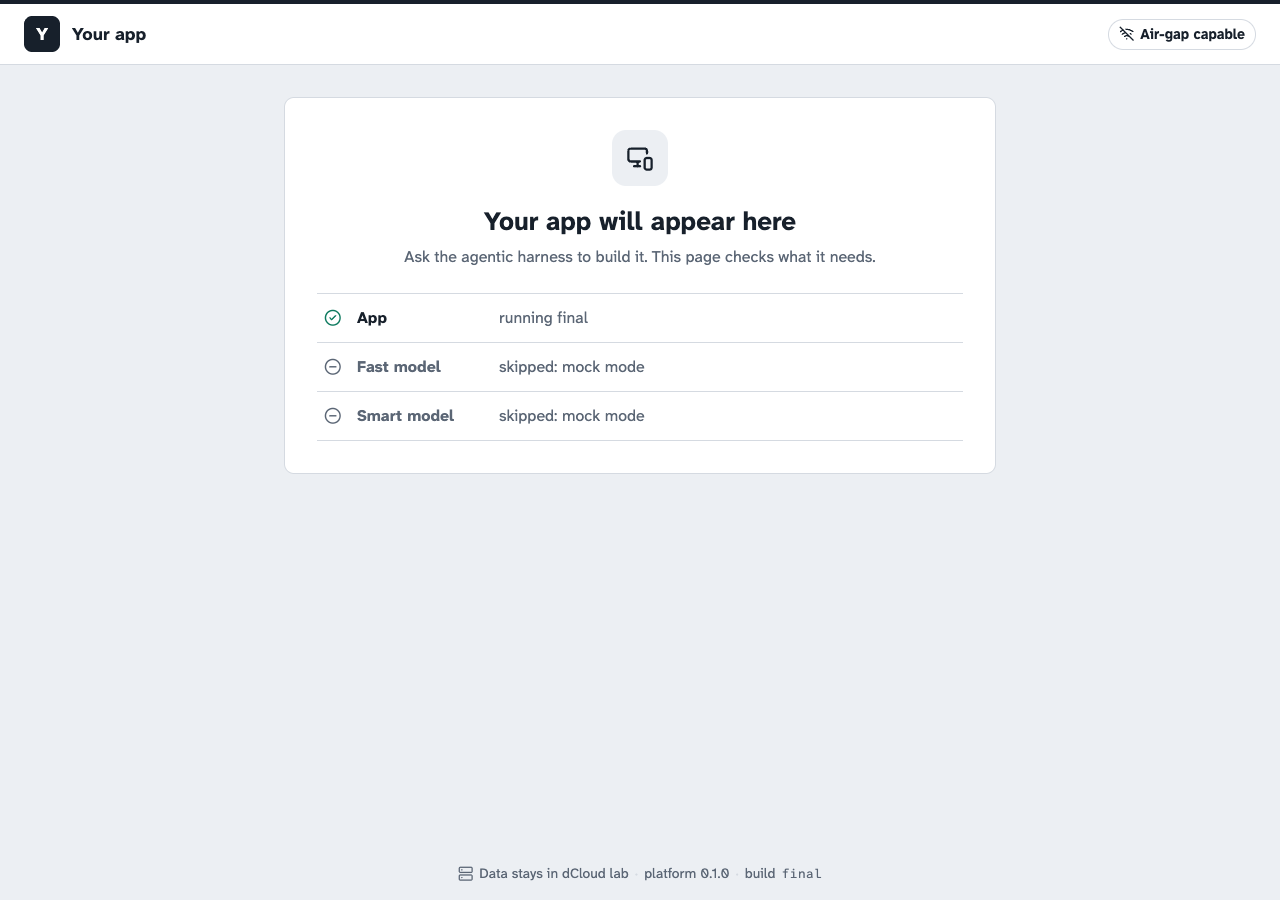
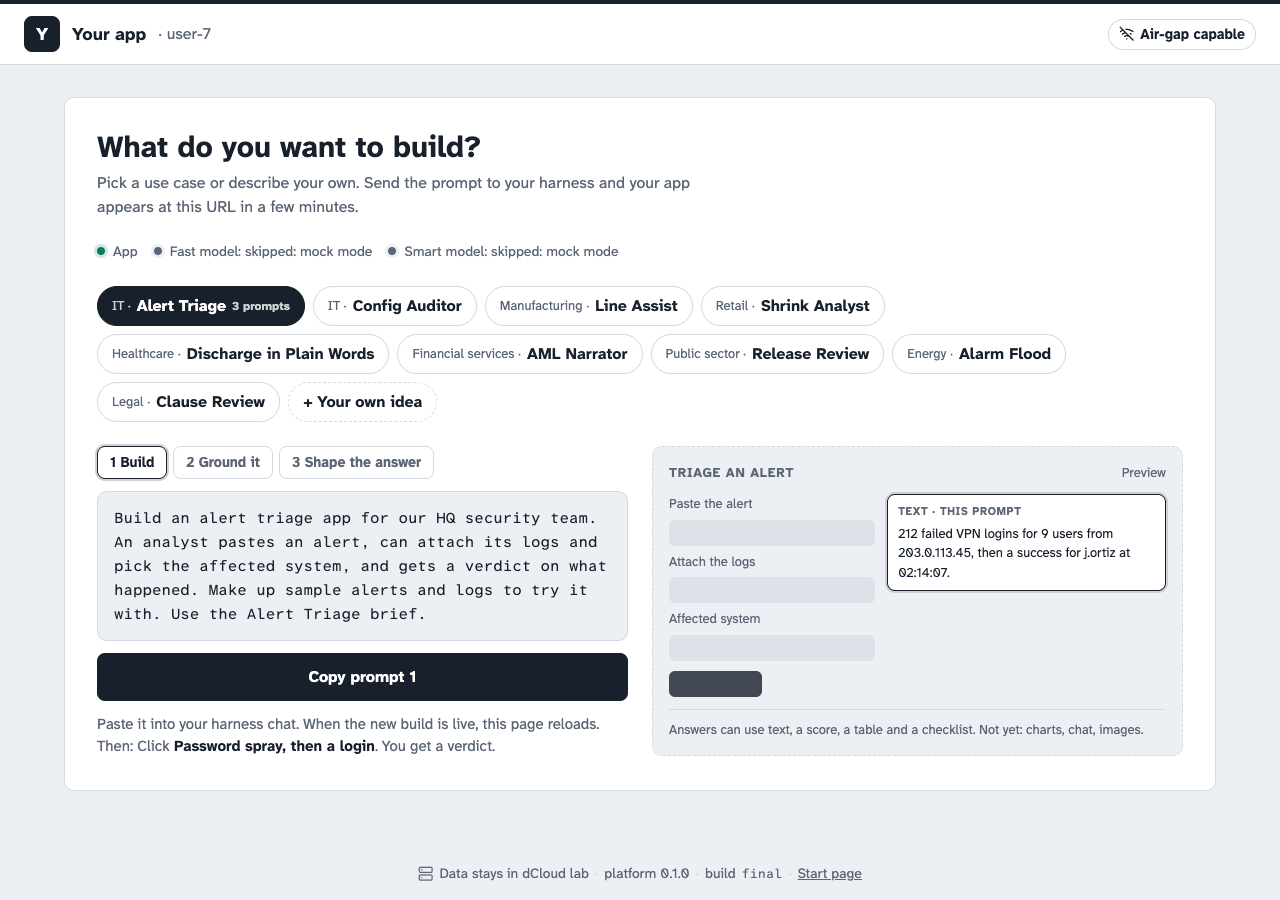
Docs: start page in the guide, walkthrough, paper and decisions
Step 0 of the guide describes the start page and its copy buttons; new
screenshots; design spec in docs/superpowers/specs.

diff --git a/docs/decisions.md b/docs/decisions.md
@@ -36,7 +36,7 @@ These are settled; reopen them only with the lab owner.
 | Seed by explicit list | `SEED` in `build-lab-repo.sh`: GUIDE.md, guide-images, AGENTS.md, Dockerfile, Makefile, lab.env.example, .gitignore, .gitea, app, catalog, examples, skills, platform. |
 | Base-app only | Containerfile, .dockerignore, tests, scripts, docs, base-app-paper.md, pyproject.toml, requirements-test.txt. `tests/test_seed.py` fails if a new top-level path is in neither list. |
 | `platform/PIN` | A hash of `platform/baseapp`, written only into the seeded copy. `make check` in a lab user's repo fails if `platform/` was edited; in this repo it skips the comparison. |
-| Working copy | `/Users/amitkumar/PycharmProjects/hackathon-v2`. The older copy under `Documents/demo-guide/base-app` is stale. Remote `origin` is the public GitHub repo `kumar-aamit/base-app` (`main`, tags `phase-1` and `phase-2`); `final` is local only. |
+| Working copy | `/Users/amitkumar/PycharmProjects/hackathon-v2`. The older copy under `Documents/demo-guide/base-app` is stale. Remote `origin` is the public GitHub repo `kumar-aamit/base-app` (`main`, tags `phase-1` and `phase-2`); `final` is pushed too. |
 
 ### Stack and runtime
 
@@ -49,6 +49,8 @@ These are settled; reopen them only with the lab owner.
 | Base image | Two stages, ubi9 python-312 into python-312-minimal; runs as any UID in group 0 with a read-only root and `/tmp` as emptyDir. Measured: ready in 247 ms, idle at 35.4 MiB. |
 | Pod sizing (planned) | Requests 25m CPU / 64Mi, limits 500m / 256Mi, set in the Deployment template with Task 7. |
 | Stateless | No database. Knowledge is indexed in memory at startup. |
+| Start page | `/` shows it until `app.yaml` lists a screen; `/start` always does, linked from every footer. Ten use cases from `platform/baseapp/usecases.yaml` (in the base image, since `catalog/` is not in the app image); Alert Triage's three prompts must match its brief word for word. Steps tick from what the app has: a screen, then `knowledge:` and a checklist, then a score and a table. It polls `/api/version` and reloads on a new build. No harness progress and no model call: the app cannot see the harness. |
+| Lab user label | `LAB_USER` in the Deployment's environment shows `· user-7` beside the app name; unset, nothing shows. |
 
 ### Models
 
@@ -96,7 +98,7 @@ These are settled; reopen them only with the lab owner.
 
 ## Open items
 
-- Wire `start-lab.sh` to seed `dist/lab-repo/`, write each user's `lab.env`, and pass `BASE_IMAGE` to the BuildConfig (phase 1 Task 7); then the on-cluster acceptance run (Task 8). In `start-lab.sh`, rename `TEAM_APP_DIR` to `LAB_APP_DIR`, `team-<N>` to `user-<N>` and `team.env` to `lab.env` to match base-app.
+- Wire `start-lab.sh` to seed `dist/lab-repo/`, write each user's `lab.env`, and pass `BASE_IMAGE` to the BuildConfig (phase 1 Task 7); then the on-cluster acceptance run (Task 8). In `start-lab.sh`, rename `TEAM_APP_DIR` to `LAB_APP_DIR`, `team-<N>` to `user-<N>` and `team.env` to `lab.env` to match base-app, and set `LAB_USER` on each Deployment.
 - Decide whether the lab-start machine fetches the public GitHub repo or a copy on the lab's code repo server.
 - Run the examples against the real models; every screenshot so far is mock mode.
 - Phase 3: workspace and assistant layouts, streaming, follow-up chat, charts, image input. Phase 4: the other 26 catalog briefs and harness provisioning.
@@ -109,6 +111,7 @@ Done on `final`:
 - [x] Update the paper: the repo's `Dockerfile`, review layout only, Alert Triage in three prompts, generic terms, and unbuilt features marked phase 3 or phase 4.
 - [x] Create a git remote: `origin` on GitHub.
 - [x] Single-user lab sessions: no "team" for the lab user anywhere. `lab.env` (`LAB_USER`), `build-lab-repo.sh`, `dist/lab-repo/`, repos named `user-<N>`, and the default app name "Your app".
+- [x] Start page replaces the placeholder: ten use cases, copy buttons, live step ticks, reload on a new build, `/start` from every footer, `LAB_USER` label. Bundled fonts only.
 
 ## File tree
 
@@ -119,7 +122,7 @@ Paths marked **seeded** are what `build-lab-repo.sh` copies into every lab user'
 ```text
 hackathon-v2/
 ├── .gitea/workflows/build-deploy-openshift.yml   seeded: build and deploy on push
-├── app/                                          seeded: THE user's app; starts as the placeholder
+├── app/                                          seeded: THE user's app; starts empty (the start page)
 │   └── app.yaml
 ├── catalog/                                      seeded: briefs a first prompt can name
 │   └── it-alert-triage.md
@@ -137,7 +140,7 @@ hackathon-v2/
 │   │   ├── *.png
 │   │   └── README.md
 │   ├── screenshots/…                             phase 1 placeholder screenshots
-│   │   └── final/                                alert-triage-final.png, placeholder.png
+│   │   └── final/                                alert-triage-final.png, start-page*.png
 │   ├── superpowers/…                             roadmap and phase plans
 │   └── walkthrough/alert-triage/                 app/ after each of the three prompts
 │       ├── step-1-build/app/…
@@ -165,7 +168,7 @@ hackathon-v2/
 │   ├── baseapp/                                  the platform source
 │   │   ├── static/
 │   │   │   ├── css/base.css
-│   │   │   ├── js/review.js
+│   │   │   ├── js/review.js, js/start.js
 │   │   │   └── vendor/…                          htmx, fonts, icons
 │   │   ├── templates/
 │   │   │   ├── layouts/review.html
@@ -173,9 +176,10 @@ hackathon-v2/
 │   │   │   │   ├── answer.html
 │   │   │   │   ├── checks.html
 │   │   │   │   ├── input.html
-│   │   │   │   └── run_error.html
+│   │   │   │   ├── run_error.html
+│   │   │   │   └── status.html                   the start page's check strip
 │   │   │   ├── base.html
-│   │   │   └── placeholder.html
+│   │   │   └── start.html
 │   │   ├── __init__.py
 │   │   ├── __main__.py                           python -m baseapp: uvicorn on APP_PORT
 │   │   ├── appspec.py                            app.yaml
@@ -192,6 +196,8 @@ hackathon-v2/
 │   │   ├── runner.py                             one run: inputs → hooks → search → prompt → model
 │   │   ├── screens.py                            screen files
 │   │   ├── smoke.py                              make smoke
+│   │   ├── start.py                              start page: use cases, steps done, preview
+│   │   ├── usecases.yaml                         the ten use cases and their prompts
 │   │   └── wait.py                               make wait
 │   ├── requirements-dev.txt
 │   └── requirements.txt
@@ -201,7 +207,7 @@ hackathon-v2/
 │   └── verify-image.sh                           restricted-pod run: ready < 1 s, idle < 64 MiB
 ├── skills/                                       seeded: the harness skill
 │   └── base-app/SKILL.md
-├── tests/                                        base-app only; 95 tests
+├── tests/                                        base-app only; 109 tests
 │   ├── test_appspec.py
 │   ├── test_check_smoke.py
 │   ├── test_config.py
@@ -212,6 +218,7 @@ hackathon-v2/
 │   ├── test_review_web.py
 │   ├── test_screens.py
 │   ├── test_seed.py
+│   ├── test_start.py
 │   ├── test_wait.py
 │   └── test_walkthrough.py
 ├── .dockerignore                                 base-app only

diff --git a/base-app-paper.md b/base-app-paper.md
@@ -11,7 +11,7 @@ Build one small Python platform, base-app, that every lab user's app runs on. Ea
 - **Models:** app pods hold no weights. They call the fast and smart open-weights model endpoints already running in dCloud, and the harness writes code with the smart tier.
 - **Builds:** each push builds the repo's `Dockerfile`, `FROM ${BASE_IMAGE}` plus the `app/` folder, in seconds. Measured on a test VM, a pod is ready in 247 ms and idles at 35.4 MiB.
 
-Before a user's first prompt, their app shows a plain placeholder with live health checks. Every example in this paper builds one lead app, Alert Triage, chosen below. The catalog lists 27 ideas across 8 industries, the lead among them, each with its reason to run locally.
+Before a user's first prompt, their app shows a start page: ten use cases with a prompt to copy, a preview of the screen each one builds, and live health checks. Every example in this paper builds one lead app, Alert Triage, chosen below. The catalog lists 27 ideas across 8 industries, the lead among them, each with its reason to run locally.
 
 ### Status of this version
 
@@ -167,7 +167,7 @@ Each screen's examples do double duty: they are the example chips in the UI and 
 
 ## Visual design
 
-The app design lives on its own canvas, base-app UI. It shows the placeholder, the lead app, Alert Triage, and two more apps built from the same parts, plus the How this runs panel (phase 3). Mock-mode screenshots of the built version are in `docs/walkthrough/alert-triage/`, `docs/gallery/` (eight more review-layout apps) and `docs/screenshots/final/`.
+The app design lives on its own canvas, base-app UI. It shows the start page, the lead app, Alert Triage, and two more apps built from the same parts, plus the How this runs panel (phase 3). Mock-mode screenshots of the built version are in `docs/walkthrough/alert-triage/`, `docs/gallery/` (eight more review-layout apps) and `docs/screenshots/final/`.
 
 | Element | Choice | Why |
 |---|---|---|
@@ -461,11 +461,11 @@ Fifteen more ideas fit the same platform unchanged. IT and network operations is
 
 ## What ships in each lab user's repo
 
-Each repo starts with a placeholder app, the finished lead example and its catalog brief. The example's chips double as the platform's end-to-end tests.
+Each repo starts with an empty app that shows the start page, the finished lead example and its catalog brief. The example's chips double as the platform's end-to-end tests.
 
 | Item | Status | What it is | Why it is there |
 |---|---|---|---|
-| Placeholder app | Built | A plain screen saying the app will appear here, with live health checks | Proves push, build, deploy and model access before the first prompt |
+| Start page | Built | Ten use cases, each with a prompt to copy and a preview; Alert Triage's three prompts are ticked off as the app gains each step; live health checks; reloads when a new build is live; reachable at `/start` from every page | Proves push, build, deploy and model access before the first prompt, and hands the user each next prompt |
 | Alert Triage (the lead) | Built | Review layout, security operations, smart model | Pattern for a log upload, a select from CSV, a hook, knowledge search, a score bar, a table and a checklist |
 | `catalog/it-alert-triage.md` | Built | The brief prompt 1 names | Starting point for the lead app |
 | Line Assist | Phase 3 | Workspace layout, manufacturing, fast model | Pattern for inputs, knowledge search and a streamed answer |
@@ -476,7 +476,7 @@ Acceptance checks for the platform:
 
 - `make check` passes against the mock model in under 5 seconds. Met locally.
 - An idle pod stays under its 64 MiB request and starts in under 1 second. Met on a test VM: 35.4 MiB, ready in 247 ms.
-- On a fresh user namespace, the placeholder shows every health check passing.
+- On a fresh user namespace, the start page shows every health check passing.
 - Alert Triage's examples run end to end against the dCloud models through `make smoke`.
 - A one-line change is live within a minute of the push.
 - The harness builds Alert Triage from its catalog brief in three prompts, using only the skill and AGENTS.md.

diff --git a/GUIDE.md b/GUIDE.md
@@ -18,21 +18,25 @@ Values in `<angle brackets>` come from your lab page.
 - Use only the made-up sample data in this repo. Never paste real alerts, logs, customer,
   patient or employee data.
 
-## Step 0: see your app's placeholder
+## Step 0: see your app's start page
 
 1. Open your app URL, `<your app URL>`, in a browser. If you don't have it yet,
    do step 1 below and ask the harness: *What is my app URL?*
-2. You see **Your app will appear here** and three checks:
+2. You see **What do you want to build?** with three checks under it:
 
-   | Row | Green means | If it is not green |
+   | Check | Green means | If it is not green |
    |---|---|---|
-   | App | The app is running; it shows the build it is on | Wait a minute and refresh |
+   | App | The app is running | Wait a minute and refresh |
    | Fast model | The fast tier answered | Amber `unreachable` or `not served`: tell the lab staff |
    | Smart model | The smart tier answered | Same as above |
 
    Grey **skipped: mock mode** means the app is running without models, for rehearsals.
+3. Alert Triage is picked, with prompt 1 ready and a preview of the screen it builds. Each
+   prompt below has a **Copy prompt** button there, so you can copy instead of typing. The page
+   reloads by itself when a new build is live and ticks off each prompt the app already has.
+   Once your app exists, the **Start page** link at the bottom of every page brings you back.
 
-![The placeholder before the first prompt](guide-images/step-0-start.png)
+![The start page before the first prompt](guide-images/step-0-start.png)
 
 ## Step 1: open the harness
 
@@ -43,7 +47,7 @@ Values in `<angle brackets>` come from your lab page.
 
 ## Step 2: build the app (prompt 1)
 
-Type or paste:
+Copy it from the start page, or type or paste:
 
 ```text
 Build an alert triage app for our HQ security team. An analyst pastes an alert, can attach its
@@ -57,7 +61,7 @@ Alert Triage brief: the brief tells the harness the details you leave out.
 The harness writes the app's files in `app/`, runs `make check`, pushes, waits for the new
 build, and reports your app URL with timings. That takes a few minutes. Then:
 
-1. Refresh your app URL. The placeholder is replaced by **Triage an alert**.
+1. Your app URL now opens **Triage an alert** instead of the start page.
 2. Click the example **Password spray, then a login**. You get a verdict.
 3. Look under the answer: **Answered on-site in … s**, with the path from this device to the
    app to the smart model, all inside the site.
@@ -66,7 +70,7 @@ build, and reports your app URL with timings. That takes a few minutes. Then:
 
 ## Step 3: ground it in your runbooks (prompt 2)
 
-Type or paste:
+Copy it from the start page, or type or paste:
 
 ```text
 Add our incident runbooks for password spray, phishing and malware, and give the analyst next
@@ -80,7 +84,7 @@ chip naming the runbook section it came from, and **Sources searched** under the
 
 ## Step 4: shape the answer (prompt 3)
 
-Type or paste:
+Copy it from the start page, or type or paste:
 
 ```text
 Add a severity score from 0 to 100 and a table of the MITRE ATT&CK techniques. Count the failed

diff --git a/docs/superpowers/specs/2026-11-26-start-page-design.md b/docs/superpowers/specs/2026-11-26-start-page-design.md
@@ -1,0 +1,44 @@
+# Start page design
+
+Replaces the placeholder ("Your app will appear here") with a start page that hands each lab user
+the next prompt. Reviewed from the mockup `Base App Start Page.html`; approved 2026-11-26 with the
+core scope, all ten use cases, a footer link back and a `LAB_USER` label.
+
+## What it shows
+
+- **What do you want to build?** with a live check strip: App, Fast model, Smart model. Anything not
+  green says why in words; a failing model adds "Tell the lab staff".
+- Ten use-case chips. Alert Triage is first and marked "3 prompts"; eight more have one detailed
+  prompt each; "Your own idea" is a text box.
+- Left: step tabs (Alert Triage only), the prompt, **Copy prompt N**, and what to try once it is live.
+- Right: a preview of the screen the prompt builds: its inputs and the answer blocks, with the
+  blocks this prompt adds outlined. "On your app now" once the step is built.
+- Limits: text, score, table and checklist; not yet charts, chat or images.
+
+## Where it lives
+
+- `/` shows it while `app.yaml` has no screens; after that `/` opens the first screen as before.
+- `/start` always shows it. Every page's footer links to it.
+- Use cases and prompts: `platform/baseapp/usecases.yaml`, in the base image, because `catalog/`
+  is not copied into the app image. A test keeps Alert Triage's prompts identical to its brief.
+
+## What is real, and what was dropped
+
+- Steps tick from what the loaded app has: step 1 a screen; step 2 `knowledge:` and a checklist;
+  step 3 a score and a table. The tab for the next step is selected by default.
+- The page polls `/api/version` every 5 s and reloads when the commit changes. If the user has typed
+  their own idea, it says a new build is live instead of reloading.
+- Dropped from the mockup: harness progress chips (the app cannot see the harness), "Improve with
+  fast model" (a new model call; later), simulated timings, and Google Fonts (bundled Atkinson
+  Hyperlegible instead).
+
+## Server-rendered
+
+Chips and step tabs are links (`/start?case=config&step=2`). `static/js/start.js` only copies the
+prompt (with a select-to-copy fallback), checks the own-idea text (who, what they enter, what they
+get, unsupported words, which blocks to preview) and polls for a new build.
+
+## Lab user label
+
+`LAB_USER` in the environment shows `· user-7` beside the app name in the header. `start-lab.sh`
+sets it on each Deployment; unset, nothing shows.

diff --git a/docs/walkthrough/alert-triage/app-yaml.md b/docs/walkthrough/alert-triage/app-yaml.md
@@ -6,7 +6,7 @@ a prompt and the agentic harness writes the file. They can also edit it by hand;
 
 ## At lab start
 
-Every lab user's repo starts with this file. With `screens: []` the app shows the placeholder page.
+Every lab user's repo starts with this file. With `screens: []` the app shows the start page.
 
 ```yaml
 # Your app. The agentic harness fills this in from your first prompt.
@@ -14,7 +14,7 @@ name: Your app          # shown in the header, 1 to 40 characters
 # mark: shield          # one letter, or an icon from the platform's set
 # brand: "#1D4ED8"      # hex color for the mark and header accent
 # site: HQ data center  # where data stays, shown in the trust signals
-screens: []             # empty shows the placeholder page
+screens: []             # empty shows the start page
 ```
 
 ## After the first prompt
@@ -35,7 +35,7 @@ screens: [triage]
 ```
 
 and writes `screens/triage.yaml` and `prompts/triage.md`, because every name in `screens:`
-needs both. After the push the placeholder is gone and `/` opens the Triage screen.
+needs both. After the push `/` opens the Triage screen instead of the start page.
 
 ## What each line does
 
@@ -81,5 +81,5 @@ Every message names the file, the field and the fix:
 | A misspelled field, `sites:` | `app/app.yaml: sites: unknown field "sites"; use one of brand, mark, name, screens, site` |
 | A screen listed but not written, `screens: [triage, shift_summary]` | `app/screens/shift_summary.yaml is missing; app.yaml lists screen shift_summary, so add that file` |
 
-If a broken app.yaml is pushed anyway, the app still starts: it shows the placeholder with the
+If a broken app.yaml is pushed anyway, the app still starts: it shows the start page with the
 same message in an amber box at the top, so you see what to fix.

diff --git a/docs/walkthrough/alert-triage/README.md b/docs/walkthrough/alert-triage/README.md
@@ -19,7 +19,7 @@ user-7/
 ├── catalog/it-alert-triage.md     the brief prompt 1 names
 ├── examples/alert-triage/app/     the finished app, to copy patterns from
 ├── app/
-│   └── app.yaml                   name: Your app, screens: []  → the placeholder page
+│   └── app.yaml                   name: Your app, screens: []  → the start page
 ├── Dockerfile                     FROM the base image, COPY app/
 ├── Makefile                       dev, check, wait, smoke
 ├── lab.env.example                lab user, code repo remote, app URL, model endpoints
@@ -29,10 +29,11 @@ user-7/
     └── PIN                        make check fails if platform/ is edited
 ```
 
-The deployed app shows the placeholder with live checks. On the cluster the model rows are
-green or amber; here they are skipped because this is mock mode.
+The deployed app shows the start page: prompt 1 ready to copy, a preview of the screen it
+builds, and live checks. On the cluster the model checks are green or amber; here they are
+skipped because this is mock mode.
 
-![Step 0: placeholder](step-0-start.png)
+![Step 0: the start page](step-0-start.png)
 
 ## Step 1: Build
 
